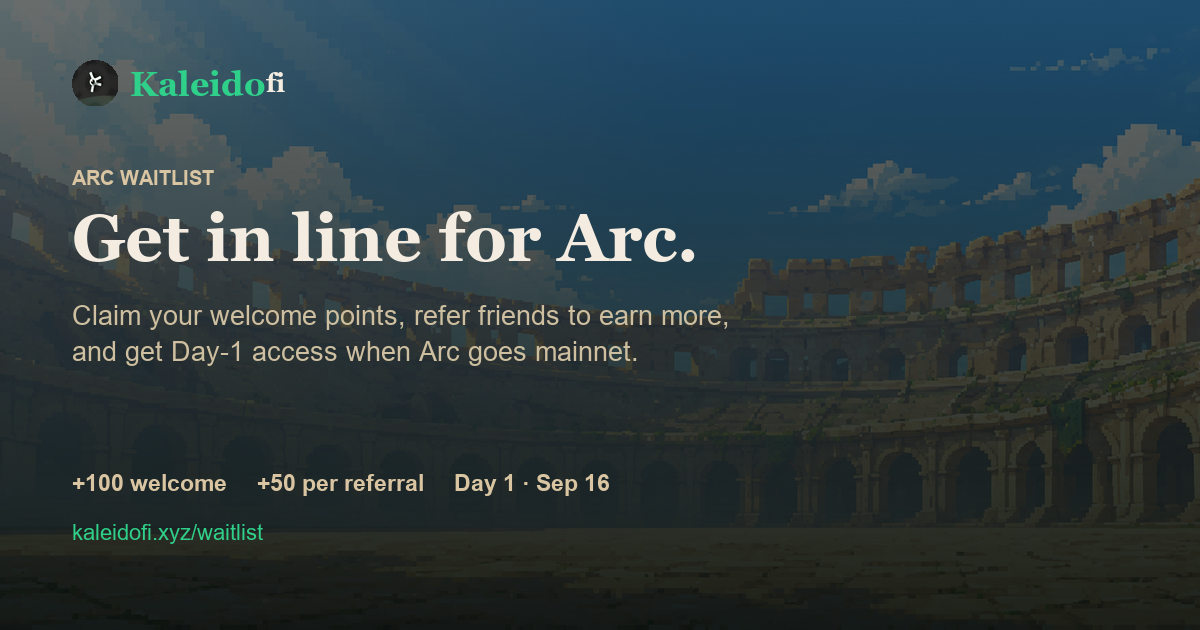
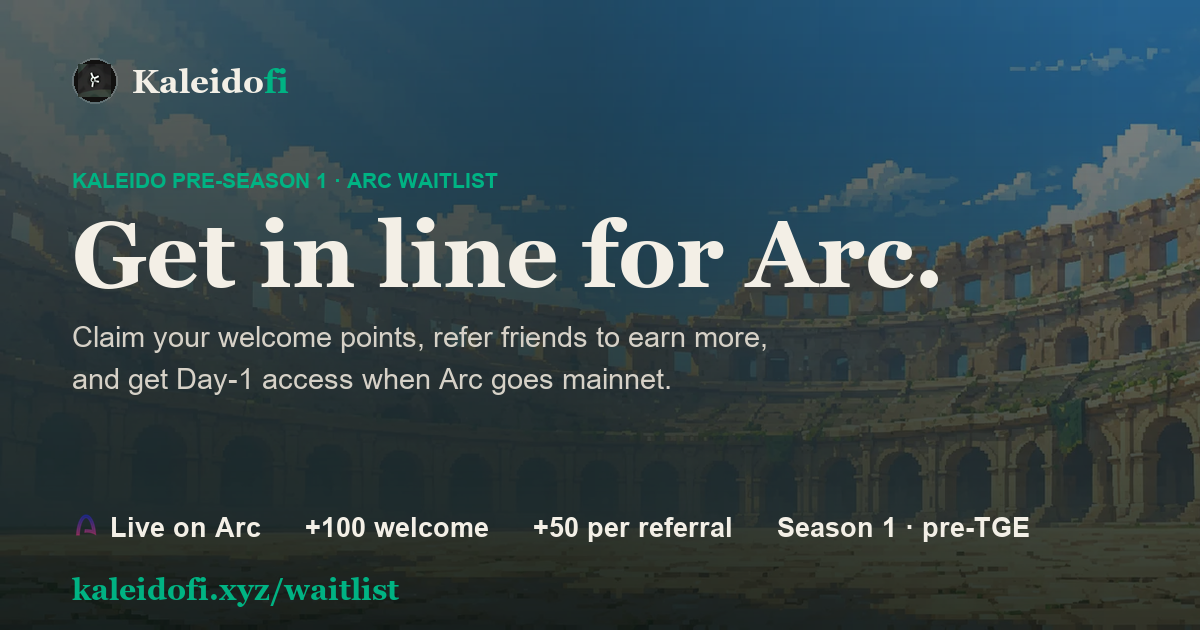
feat(waitlist): rename to "Kaleido Pre-Season 1 · Arc Waitlist"
Propagates the campaign's new name across every waitlist surface:
- page eyebrow and <title>/metadata
- the wallet-signing prompt (client + server joinMessage in lockstep, so
  signature verification still recovers the signer for new signups)
- the OG/referral card (regenerated 1200x630): new eyebrow, the real Arc mark
  in a "Live on Arc" chip, and a "Season 1 · pre-TGE" metric

Also states the pre-TGE points context in the page lede ("Points feed
Season 1, our pre-TGE points season").

diff --git a/src/app/waitlist/page.tsx b/src/app/waitlist/page.tsx
@@ -21,7 +21,7 @@ type Leader = { rank: number; wallet: string; referrals: number };
 
 /** Must match the message the API rebuilds and verifies. */
 const joinMessage = (address: string) =>
-  `Join the Kaleido Arc waitlist.\nWallet: ${address}`;
+  `Join the Kaleido Pre-Season 1 Arc waitlist.\nWallet: ${address}`;
 
 export default function WaitlistPage() {
   const account = useActiveAccount();
@@ -113,12 +113,12 @@ export default function WaitlistPage() {
   return (
     <main className={s.page}>
       <header className={s.head}>
-        <p className={s.eyebrow}>Arc waitlist</p>
+        <p className={s.eyebrow}>Kaleido Pre-Season 1 · Arc waitlist</p>
         <h1 className={`${s.h1} k-display`}>Get in line for Arc.</h1>
         <p className={s.lede}>
           Agentic DeFi, live on Arc from Day&nbsp;1 (Sep&nbsp;16). Claim your
           welcome points, refer friends to earn more, and climb the board before
-          mainnet.
+          mainnet. Points feed Season&nbsp;1, our pre-TGE points season.
         </p>
       </header>
 

diff --git a/src/app/api/waitlist/route.ts b/src/app/api/waitlist/route.ts
@@ -22,7 +22,7 @@ const REFERRAL_CAP = 5000; // matches the referral source cap in the points sche
 
 /** The exact string the client signs. Rebuilt here from the posted address. */
 const joinMessage = (address: string) =>
-  `Join the Kaleido Arc waitlist.\nWallet: ${address}`;
+  `Join the Kaleido Pre-Season 1 Arc waitlist.\nWallet: ${address}`;
 
 const isAddress = (a: unknown): a is string =>
   typeof a === "string" && /^0x[0-9a-fA-F]{40}$/.test(a);

diff --git a/src/app/waitlist/layout.tsx b/src/app/waitlist/layout.tsx
@@ -12,7 +12,7 @@ const OG_DESC =
   "Claim your welcome points, refer friends to earn more, and get Day-1 access when Arc goes mainnet.";
 
 export const metadata: Metadata = {
-  title: "Kaleido Arc Waitlist",
+  title: "Kaleido Pre-Season 1 · Arc Waitlist",
   description: OG_DESC,
   // Referral links are the whole viral loop, so they must unfurl a rich card.
   openGraph: {
